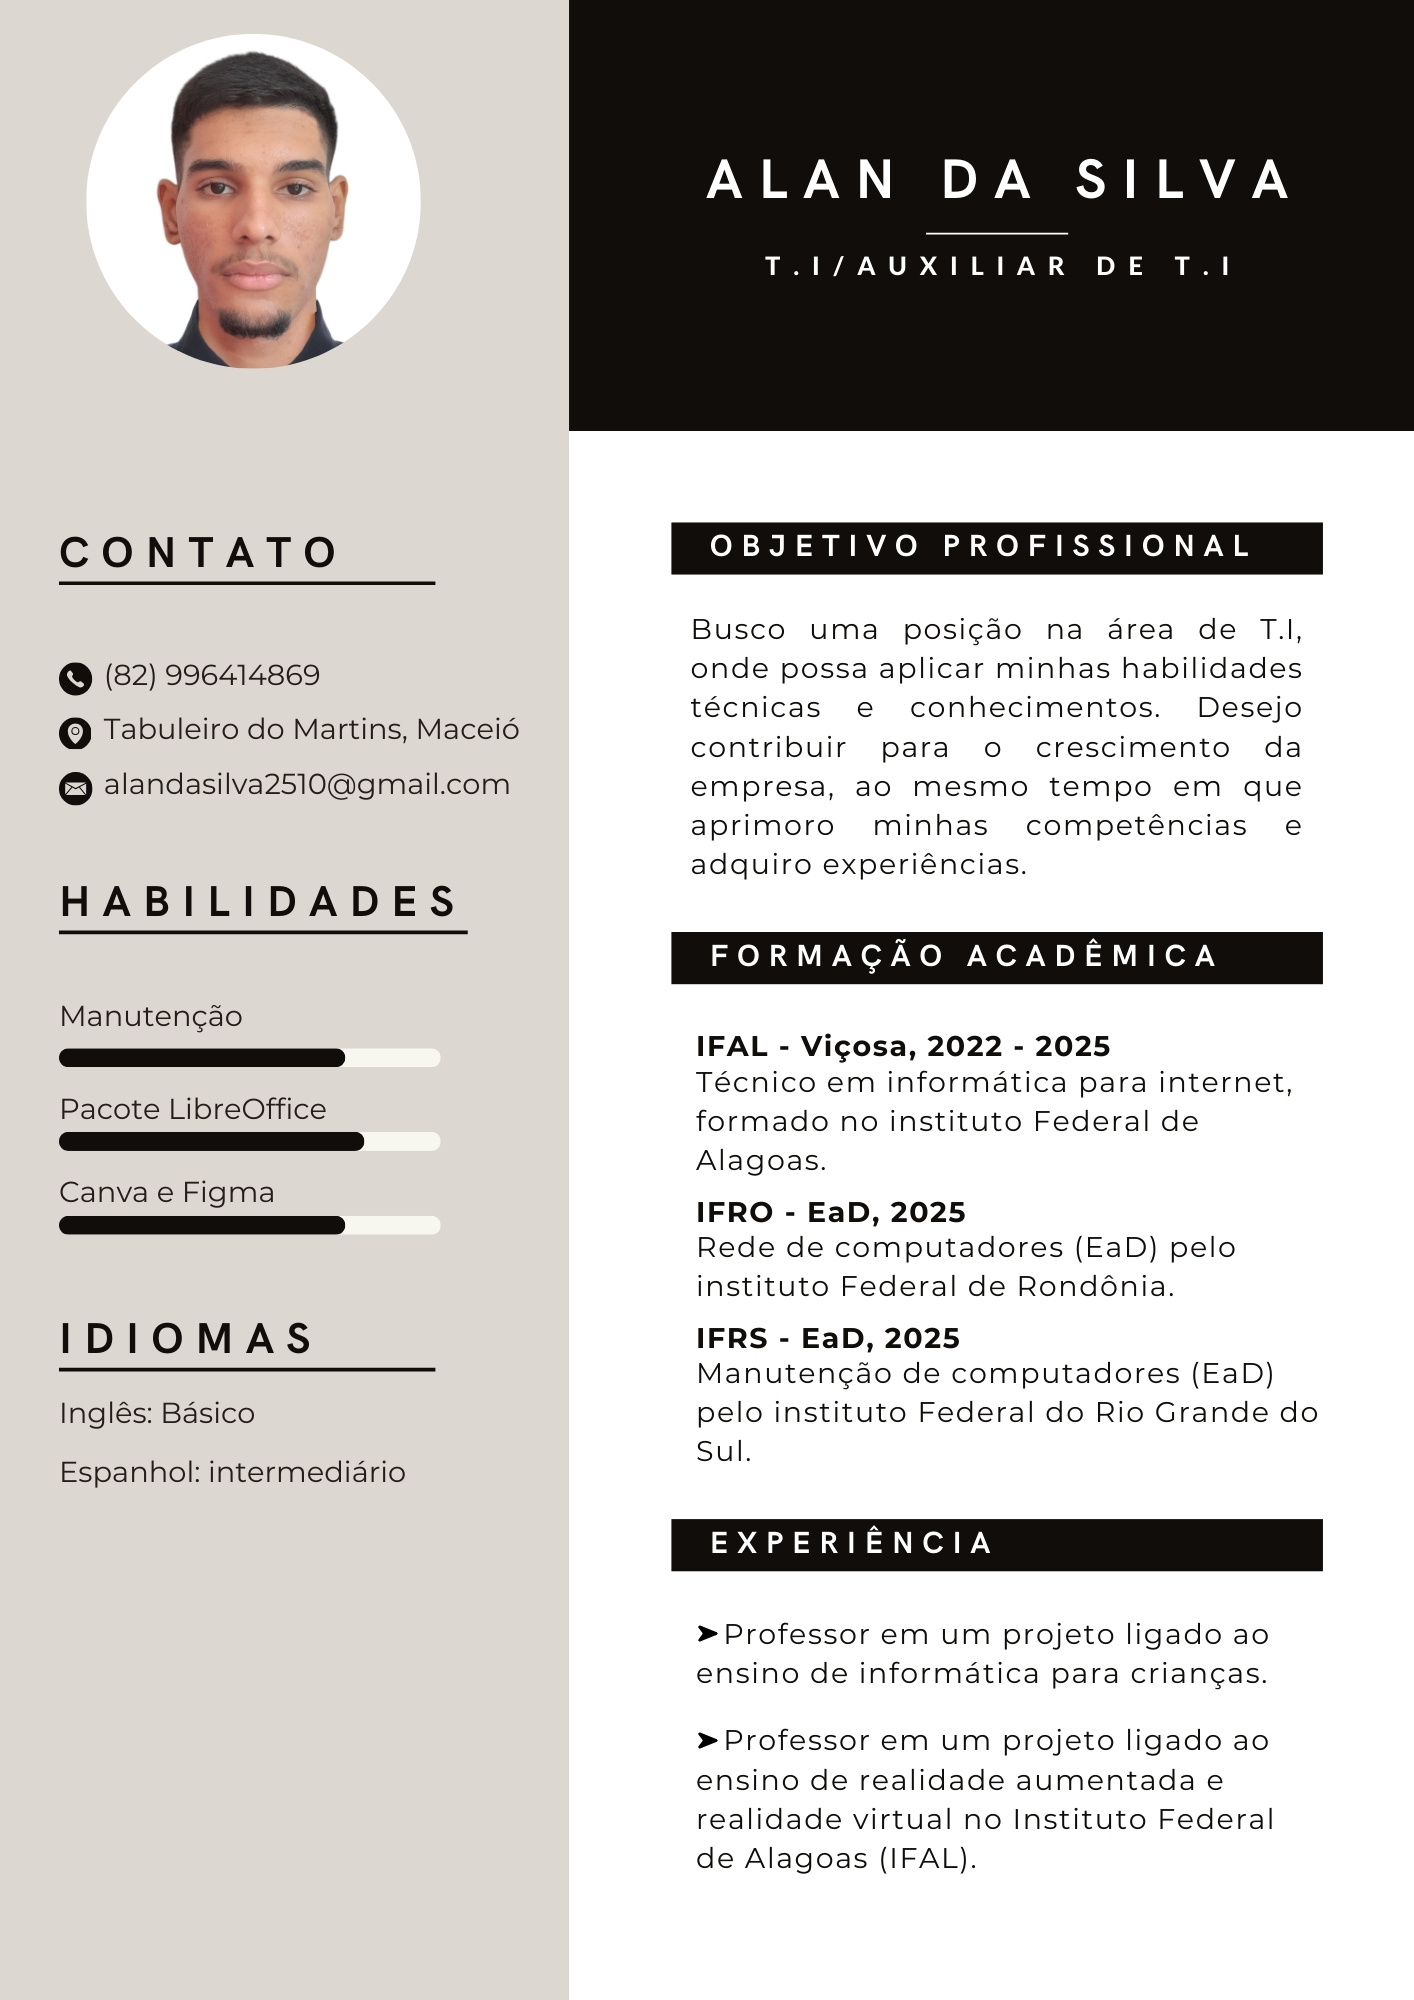
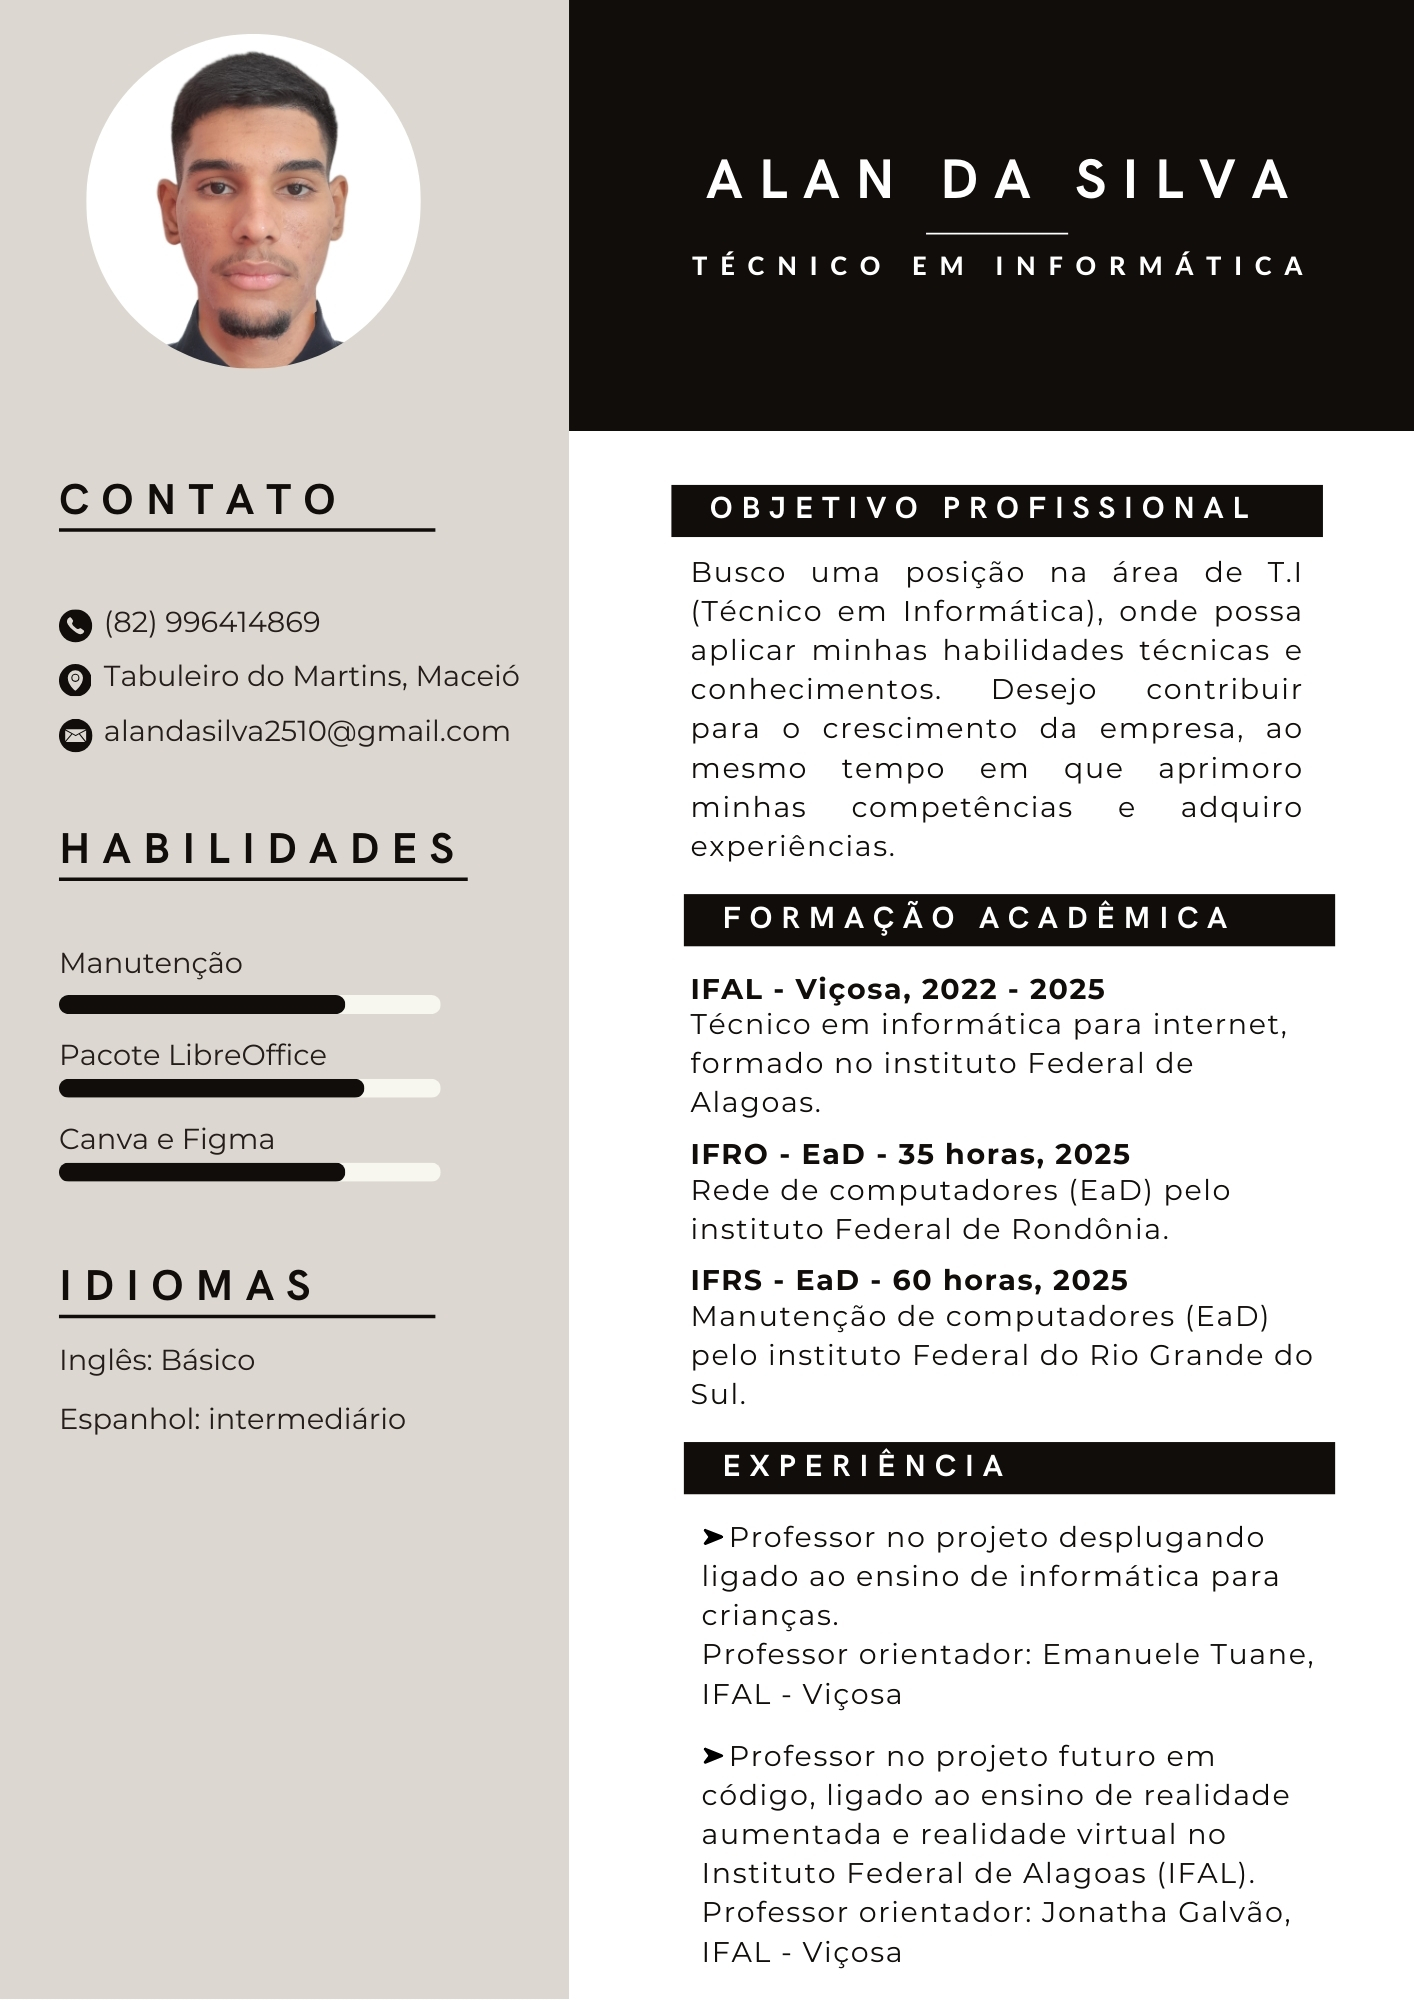
Ataualizações

diff --git a/src/index.html b/src/index.html
@@ -67,7 +67,7 @@
                 <div class="timeline-dot"></div>
                     <div class="timeline-date">2025</div>
                     <div class="timeline-content">
-                        <h3>Manutenção de Computadores (IFSul)</h3>
+                        <h3>Manutenção de Computadores (IFSul) 60 horas</h3>
                         <p>Em 2025, concluí minha formação no curso de Manutenção de Computadores na modalidade de Ensino a Distância (EaD) pelo Instituto Federal Sul-Rio-Grandense (IFSul). Durante o curso, desenvolvi competências fundamentais em hardware, como montagem e configuração de computadores, substituição de componentes, e manutenção preventiva e corretiva.</p>
                     </div>
             </div>
@@ -76,7 +76,7 @@
                 <div class="timeline-dot"></div>
                     <div class="timeline-date">2025</div>
                     <div class="timeline-content">
-                        <h3>Redes de Computadores(IFRO)</h3>
+                        <h3>Redes de Computadores (IFRO) 35 horas</h3>
                         <p>No ano de 2025, concluí minha formação no curso de Rede de Computadores na modalidade de Ensino a Distância (EaD) pelo Instituto Federal de Rondônia (IFRO). Durante o curso, adquiri conhecimentos essenciais sobre configuração, administração e segurança de redes de computadores. Estudei tópicos como protocolos de comunicação, roteamento, switching, redes sem fio, e segurança da informação.</p>
                     </div>
             </div>
@@ -121,14 +121,14 @@
             <div class="expe-box">
                 <div class="expe-info">
                     <h4>Profesor de informática básica</h4>
-                    <p>Trabalhei como professor de informática básica em um projeto de extensão no IFAL, voltado ao ensino de tecnologia e conceitos básicos. Trabalhei nesse projeto por cerca de 4 meses.</p>
+                    <p>Trabalhei como professor de informática básica em um projeto de extensão no IFAL, voltado ao ensino de tecnologia. Trabalhei nesse projeto por cerca de 4 meses. <br> Professor orientador: Emanuele Tuane (IFAL)</p>
                 </div>
             </div>
 
             <div class="expe-box">
                 <div class="expe-info">
-                    <h4>Profesor de VR e AR</h4>
-                    <p>Lecionei em um projeto de ensino do IFAL, voltado ao aprendizado de tecnologias de realidade virtual e realidade aumentada. Durante 2 meses.</p>
+                    <h4>Profesor de Realida Aumentada</h4>
+                    <p>Lecionei em um projeto de ensino do IFAL, voltado ao aprendizado de tecnologias de realidade virtual e realidade aumentada. Durante 2 meses. <br> Professor orientador: Jonathan Galvão (IFAL)</p>
                 </div>
             </div>
             

diff --git a/src/css/style.css b/src/css/style.css
@@ -246,15 +246,15 @@ span {
     }
     21%,
     40%{
-        content: "Auxiliar Técnico";
+        content: "Técnico de rede";
     }
     41%,
     60%{
-        content: "Técnico de rede";
+        content: "Design júnior";
     }
     61%,
     80%{
-        content: "Design júnior";
+        content: "Front-end júnior";
     }
     81%,
     100%{
